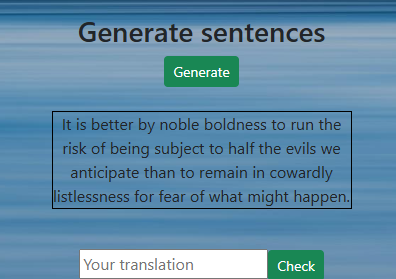
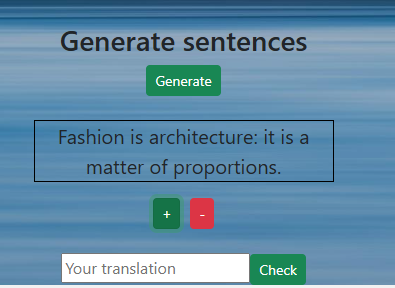
increase/decrease font functions added to the generate.js

Changed region(s): [[0.0911, 0.3728, 0.881, 0.8315], [0.0, 0.0, 1.0, 0.3441], [0.0, 0.8602, 1.0, 1.0]]

diff --git a/frontend/src/pages/Generate.js b/frontend/src/pages/Generate.js
@@ -29,6 +29,22 @@ function Generate() {
             });
     }
 
+    //quotePlace tagissa olevan tekstin fontin suurentaminen 2 pikselillä
+    const increaseText=()=>{
+
+        var txt = document.getElementById('quotePlace');
+        var style = window.getComputedStyle(txt, null).getPropertyValue('font-size');
+        var currentSize = parseFloat(style);
+        txt.style.fontSize = (currentSize + 2) + 'px';
+
+    }
+
+    const decreaseText=()=>{
+        var txt = document.getElementById('quotePlace');
+        var style = window.getComputedStyle(txt, null).getPropertyValue('font-size');
+        var currentSize = parseFloat(style);
+        txt.style.fontSize = (currentSize - 2) + 'px';
+    }
 
     const checkAnswer = () => {
         genQuote = genQuote.toLowerCase()
@@ -67,6 +83,8 @@ function Generate() {
             <br></br><br></br>
             <center>
             <p id="quotePlace" class="quotePlace">{genQuote}</p>
+            <button class="btn btn-success btn-sm" style={{marginRight:10+'px'}} onClick={increaseText}>+</button>
+            <button class="btn btn-danger btn-sm" onClick={decreaseText}>-</button>
             
             </center>
             

diff --git a/README.md b/README.md
@@ -61,7 +61,7 @@ RANDOM SENTENCES
 
 User can generate random phrases to display in the app. Random phrases are generated using the external Quote API and retrieved using the JavaScript Fetch method. The idea is that the user reads the sentence and translates it into Finnish by writing the answer in the html input field. the translated sentence is sent to the GPT API, which checks the correctness of the user's answer.
 
-An example image with a random phrase fetched from the API and displayed to the user. 
+An example image with a random phrase fetched from the API and displayed to the user. The user can increase or decrease the font of the generated text by clicking the plus and minus buttons. Both buttons have a JavaScript function that uses the getComputedStyle and getPropertyValues functions to increase and decrease the font size of the element's text. Each click decreases/enlarges the font by 2 pixels at a time.
 
 ![alt text](frontend/src/images/LLappGenerate.png)
 
@@ -104,7 +104,7 @@ This feature is made with CSS-animate and Transform methods. Reloading CSS anima
 
 ADJUSTMENT OF AUXILIARY IMAGES
 
-The user can adjust the brightness and contrast of the auxiliary images with the html slider. The default brightness and contrast is 100% and can be adjusted between 1-200%. The brightness/contrast values are stored in the State variable and the variable is sent to the style property of the auxiliary img element. These properties use the CSS brightness and CSS contrast functions.
+The user can adjust the brightness, hue-rotate and contrast of the auxiliary images with the html slider. The default brightness and contrast is 100% and can be adjusted between 1-200%. The brightness/contrast values are stored in the State variable and the variable is sent to the style property of the auxiliary img element. These properties use the CSS brightness and CSS contrast functions.
 
 The default size of auxiliary images is 200 x 200 pixels. The user can zoom in or out auxiliary image by using clicking the buttons. each click resizes the guide image by 5 pixels in height and width. Image size values are stored in state variables, and increment/decrement functions change these variable values.
 You can also reset the auxiliary image to its default size at any time by clicking the reset button.
